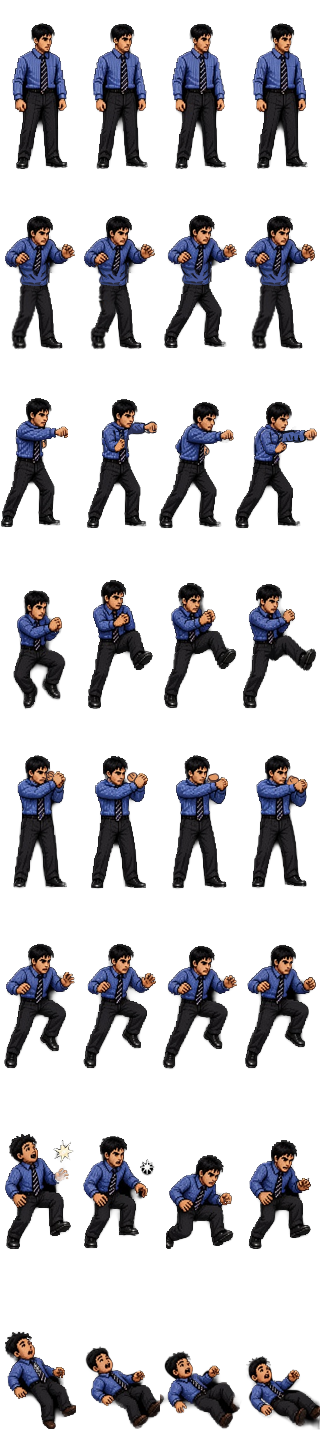
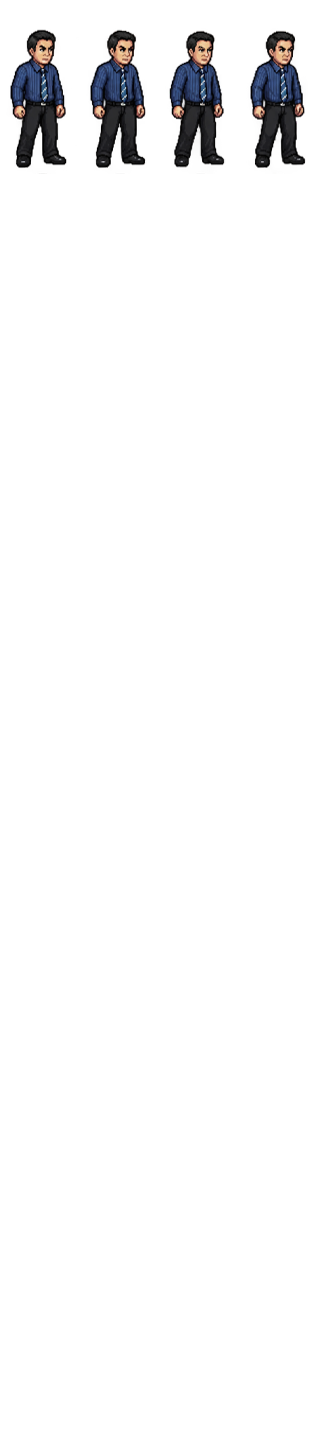
feat(game): update key bindings and remove special stat

diff --git a/character.py b/character.py
@@ -41,7 +41,7 @@ CHARACTERS = [
         color=S.GREY,
         portrait_path="imageFolder/kai_portrait.png",
         sheet_path="imageFolder/kai_sheet.png",
-        base_stats={"PWR": 90, "DEF": 70, "SPD": 85, "SPC": 95},
+        base_stats=Jack.BASE_STATS.copy(),
         fighter_class=Jack,
         playable=True,
     ),
@@ -51,7 +51,7 @@ CHARACTERS = [
         color=S.GREY,
         portrait_path="imageFolder/nyx_portrait.png",
         sheet_path="imageFolder/nyx_sheet.png",
-        base_stats={"PWR": 75, "DEF": 60, "SPD": 98, "SPC": 90},
+        base_stats=Art.BASE_STATS.copy(),
         fighter_class=Art,
         playable=True,
     ),
@@ -59,17 +59,17 @@ CHARACTERS = [
 
 LOCKED = [
     CharacterData("T. Piya", "COMING SOON", S.GREY, "imageFolder/emptyImage.png", "imageFolder/emptyImage.png",
-                  {"PWR": 50, "DEF": 50, "SPD": 50, "SPC": 50}),
+                  {"PWR": 50, "DEF": 50, "SPD": 50}),
     CharacterData("T. Pao", "COMING SOON", S.GREY, "imageFolder/emptyImage.png", "imageFolder/emptyImage.png",
-                  {"PWR": 50, "DEF": 50, "SPD": 50, "SPC": 50}),
+                  {"PWR": 50, "DEF": 50, "SPD": 50}),
     CharacterData("T. Wachira", "COMING SOON", S.GREY, "imageFolder/emptyImage.png", "imageFolder/emptyImage.png",
-                  {"PWR": 50, "DEF": 50, "SPD": 50, "SPC": 50}),
+                  {"PWR": 50, "DEF": 50, "SPD": 50}),
     CharacterData("T. May", "COMING SOON", S.GREY, "imageFolder/emptyImage.png", "imageFolder/emptyImage.png",
-                  {"PWR": 50, "DEF": 50, "SPD": 50, "SPC": 50}),
+                  {"PWR": 50, "DEF": 50, "SPD": 50}),
     CharacterData("Oat", "COMING SOON", S.GREY, "imageFolder/emptyImage.png", "imageFolder/emptyImage.png",
-                  {"PWR": 50, "DEF": 50, "SPD": 50, "SPC": 50}),
+                  {"PWR": 50, "DEF": 50, "SPD": 50}),
     CharacterData("Night", "COMING SOON", S.GREY, "imageFolder/emptyImage.png", "imageFolder/emptyImage.png",
-                  {"PWR": 50, "DEF": 50, "SPD": 50, "SPC": 50}),
+                  {"PWR": 50, "DEF": 50, "SPD": 50}),
 ]
 
 ROSTER: list[CharacterData] = CHARACTERS + LOCKED

diff --git a/entities.py b/entities.py
@@ -181,7 +181,7 @@ class BaseFighter(ABC):
 class Fighter(GameObject, BaseFighter):
     NAME = "FIGHTER"
     TITLE = ""
-    BASE_STATS: dict[str, int] = {"PWR": 50, "DEF": 50, "SPD": 50, "SPC": 50}
+    BASE_STATS: dict[str, int] = {"PWR": 50, "DEF": 50, "SPD": 50}
     SIZE = (70, 170)
     SHEET_PATH = "imageFolder/emptyImage.png"
 
@@ -304,10 +304,6 @@ class Fighter(GameObject, BaseFighter):
     @property
     def speed(self) -> float:
         return self._stats["SPD"] / 100.0
-
-    @property
-    def special(self) -> float:
-        return self._stats["SPC"] / 100.0
 
     @property
     def stats_percent(self) -> dict[str, int]:
@@ -602,7 +598,7 @@ class Fighter(GameObject, BaseFighter):
 class Jack(Fighter):
     NAME = "T. Jack"
     TITLE = "THE URBAN BRAWLER"
-    BASE_STATS = {"PWR": 90, "DEF": 70, "SPD": 85, "SPC": 95}
+    BASE_STATS = {"PWR": 90, "DEF": 70, "SPD": 85}
     SHEET_PATH = "imageFolder/kai_sheet.png"
 
     def __init__(self, *args: object, **kwargs: object) -> None:
@@ -647,7 +643,7 @@ class Jack(Fighter):
 class Art(Fighter):
     NAME = "T. Art"
     TITLE = "SHADOW SHINOBI"
-    BASE_STATS = {"PWR": 75, "DEF": 60, "SPD": 98, "SPC": 90}
+    BASE_STATS = {"PWR": 75, "DEF": 60, "SPD": 98}
     SHEET_PATH = "imageFolder/nyx_sheet.png"
 
     def __init__(self, *args: object, **kwargs: object) -> None:
@@ -672,7 +668,7 @@ class Art(Fighter):
         if not self.has_status("veiled") or self._counter_cd > 0 or "counter" in hit.tags:
             return
         self._counter_cd = 0.6
-        crit = (6 + 8 * self.special) * 2.0
+        crit = (6 + 8 * self.power) * 2.0
         counter = HitInfo(
             attacker=self, damage=crit, knockback=pygame.Vector2(420, -320),
             direction=1 if hit.attacker.pos.x >= self.pos.x else -1,

diff --git a/ui.py b/ui.py
@@ -318,14 +318,16 @@ class FighterCard:
             for j, line in enumerate(wrap_text(sk.DESCRIPTION, 9, desc_w)[:3]):
                 draw_text(surface, line, 9, S.GREY, (desc_x, sr.y + 22 + j * 12))
         stats = preview.stats_percent
-        for i, key in enumerate(("PWR", "DEF", "SPD", "SPC")):
+        stat_labels = (("Power", "PWR"), ("Defense", "DEF"), ("Speed", "SPD"))
+        for i, (label, key) in enumerate(stat_labels):
             bx = r.x + 16 + (i % 2) * ((r.w - 32) // 2 + 6)
             by = r.y + 490 + (i // 2) * 26
             bw = (r.w - 32) // 2 - 12
-            draw_text(surface, key, 9, S.WHITE, (bx, by))
-            draw_text(surface, f"{stats[key]}%", 9, S.WHITE, (bx + bw, by), "topright")
+            value = stats[key]
+            draw_text(surface, label, 9, S.WHITE, (bx, by))
+            draw_text(surface, f"{value}%", 9, S.WHITE, (bx + bw, by), "topright")
             pygame.draw.rect(surface, S.DARK, (bx, by + 12, bw, 4))
-            pygame.draw.rect(surface, col, (bx, by + 12, int(bw * stats[key] / 100), 4))
+            pygame.draw.rect(surface, col, (bx, by + 12, int(bw * value / 100), 4))
 
 
 class RosterGrid:

diff --git a/component.py b/component.py
@@ -162,10 +162,10 @@ class InputController:
 def make_player_one_controller() -> InputController:
     km = {
         "left": (pygame.K_a,), "right": (pygame.K_d,), "jump": (pygame.K_w,),
-        "block": (pygame.K_s,), "attack": (pygame.K_f,),
-        "skill1": (pygame.K_q,), "skill2": (pygame.K_e,), "skill3": (pygame.K_c,),
+        "block": (pygame.K_s,), "attack": (pygame.K_v,),
+        "skill1": (pygame.K_f,), "skill2": (pygame.K_g,), "skill3": (pygame.K_h,),
     }
-    lb = {"attack": "F", "skill1": "Q", "skill2": "E", "skill3": "C"}
+    lb = {"attack": "V", "skill1": "F", "skill2": "G", "skill3": "H"}
     return InputController(km, lb)
 
 

diff --git a/main.py b/main.py
@@ -63,7 +63,7 @@ class MenuScene(Scene):
             draw_text(surface, "PRESS ENTER", 20, S.WHITE, (640, 320), "midtop")
 
         for col, x, lines in (
-            (S.P1_COLOR, 340, ["PLAYER 1", "A / D  move     W  jump     S  guard", "F  attack", "Q  E  C  skills"]),
+            (S.P1_COLOR, 340, ["PLAYER 1", "A / D  move     W  jump     S  guard", "V  attack", "F G H  skills"]),
             (S.P2_COLOR, 940, ["PLAYER 2", "← / →  move   ↑  jump   ↓  guard", "NUM 0   attack", "NUM 1 2 3  skills"]),
         ):
             box = pygame.Rect(x - 180, 380, 360, 120)
